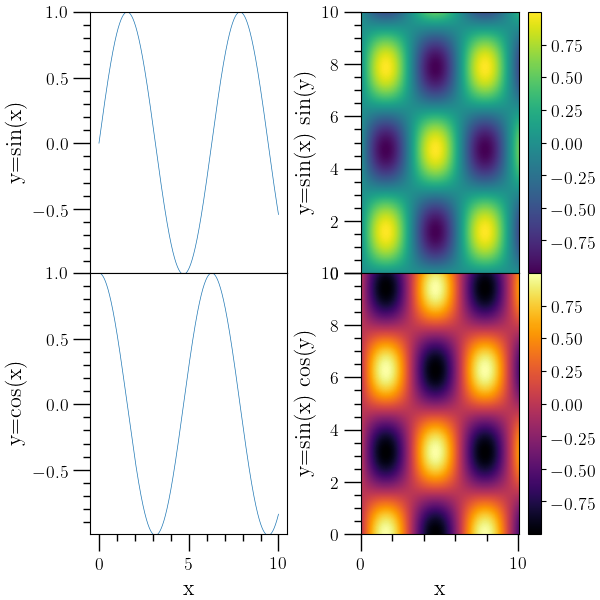
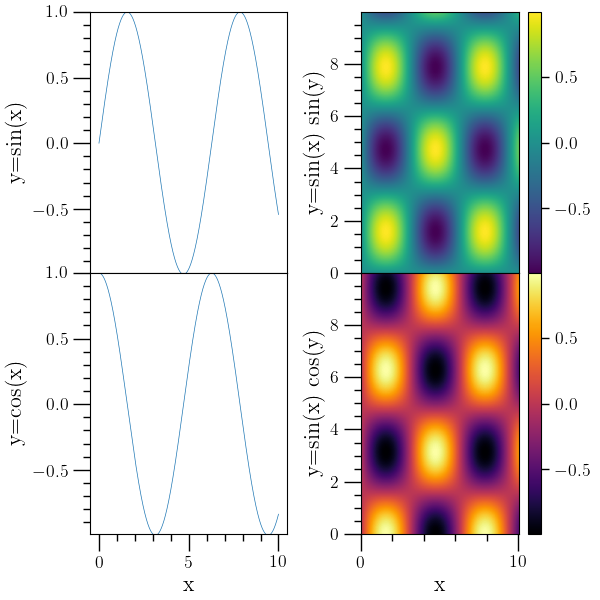
Updated tick params for density plots.

diff --git a/o2sclpy/o2graph_plotter.py b/o2sclpy/o2graph_plotter.py
@@ -468,6 +468,7 @@ class o2graph_plotter(plot_base):
 
         if self.colbar==True:
             cbar=self.fig.colorbar(self.last_image,ax=self.axes)
+            cbar.ax.tick_params('both',length=6,width=1,which='major')
             cbar.ax.tick_params(labelsize=self.font*0.8)
 
     def den_plot_rgb(self,o2scl_hdf,amp,args):
@@ -693,6 +694,7 @@ class o2graph_plotter(plot_base):
 
         if self.colbar==True:
             cbar=self.fig.colorbar(self.last_image,ax=self.axes)
+            cbar.ax.tick_params('both',length=6,width=1,which='major')
             cbar.ax.tick_params(labelsize=self.font*0.8)
 
     def plot(self,o2scl_hdf,amp,args):
@@ -1066,6 +1068,7 @@ class o2graph_plotter(plot_base):
                 if self.colbar==True:
                     cbar=self.fig.colorbar(mapper,
                                            ax=self.axes)
+                    cbar.ax.tick_params('both',length=6,width=1,which='major')
                     cbar.ax.tick_params(labelsize=self.font*0.8)
                     
             # End of section for 'table' type
@@ -1313,6 +1316,8 @@ class o2graph_plotter(plot_base):
                     self.axes.set_ylim(self.ylo,self.yhi)
                 if self.colbar==True and len(cv)>0:
                     cbar=plot.colorbar(ax=self.axes)
+                    cbar.ax.tick_params('both',length=6,width=1,
+                                        which='major')
                     cbar.ax.tick_params(labelsize=self.font*0.8)
                     
             # End of section for 'table' type
@@ -1497,6 +1502,8 @@ class o2graph_plotter(plot_base):
                 
                 if self.colbar==True:
                     cbar=plot.colorbar(self.last_image,ax=self.axes)
+                    cbar.ax.tick_params('both',length=6,width=1,
+                                        which='major')
                     cbar.ax.tick_params(labelsize=self.font*0.8)
                     
             # End of section for 'table' type
@@ -2395,6 +2402,8 @@ class o2graph_plotter(plot_base):
                                                 1.0-bm-tm])
                     self.cbar=self.fig.colorbar(self.last_image,
                                                 cax=dpa_cax2)
+                    self.cbar.ax.tick_params('both',length=6,width=1,
+                                             which='major')
                     self.cbar.ax.tick_params(labelsize=self.font*0.8)
                     
                 if n_frames<10:

diff --git a/o2sclpy/utils.py b/o2sclpy/utils.py
@@ -73,6 +73,7 @@ def default_plot(left_margin=0.14,bottom_margin=0.12,
     ax=plot.axes([left_margin,bottom_margin,
                   1.0-left_margin-right_margin,1.0-top_margin-bottom_margin])
     ax.minorticks_on()
+    # Make the ticks longer than default
     ax.tick_params('both',length=12,width=1,which='major')
     ax.tick_params('both',length=5,width=1,which='minor')
     ax.tick_params(labelsize=fontsize*0.8)
